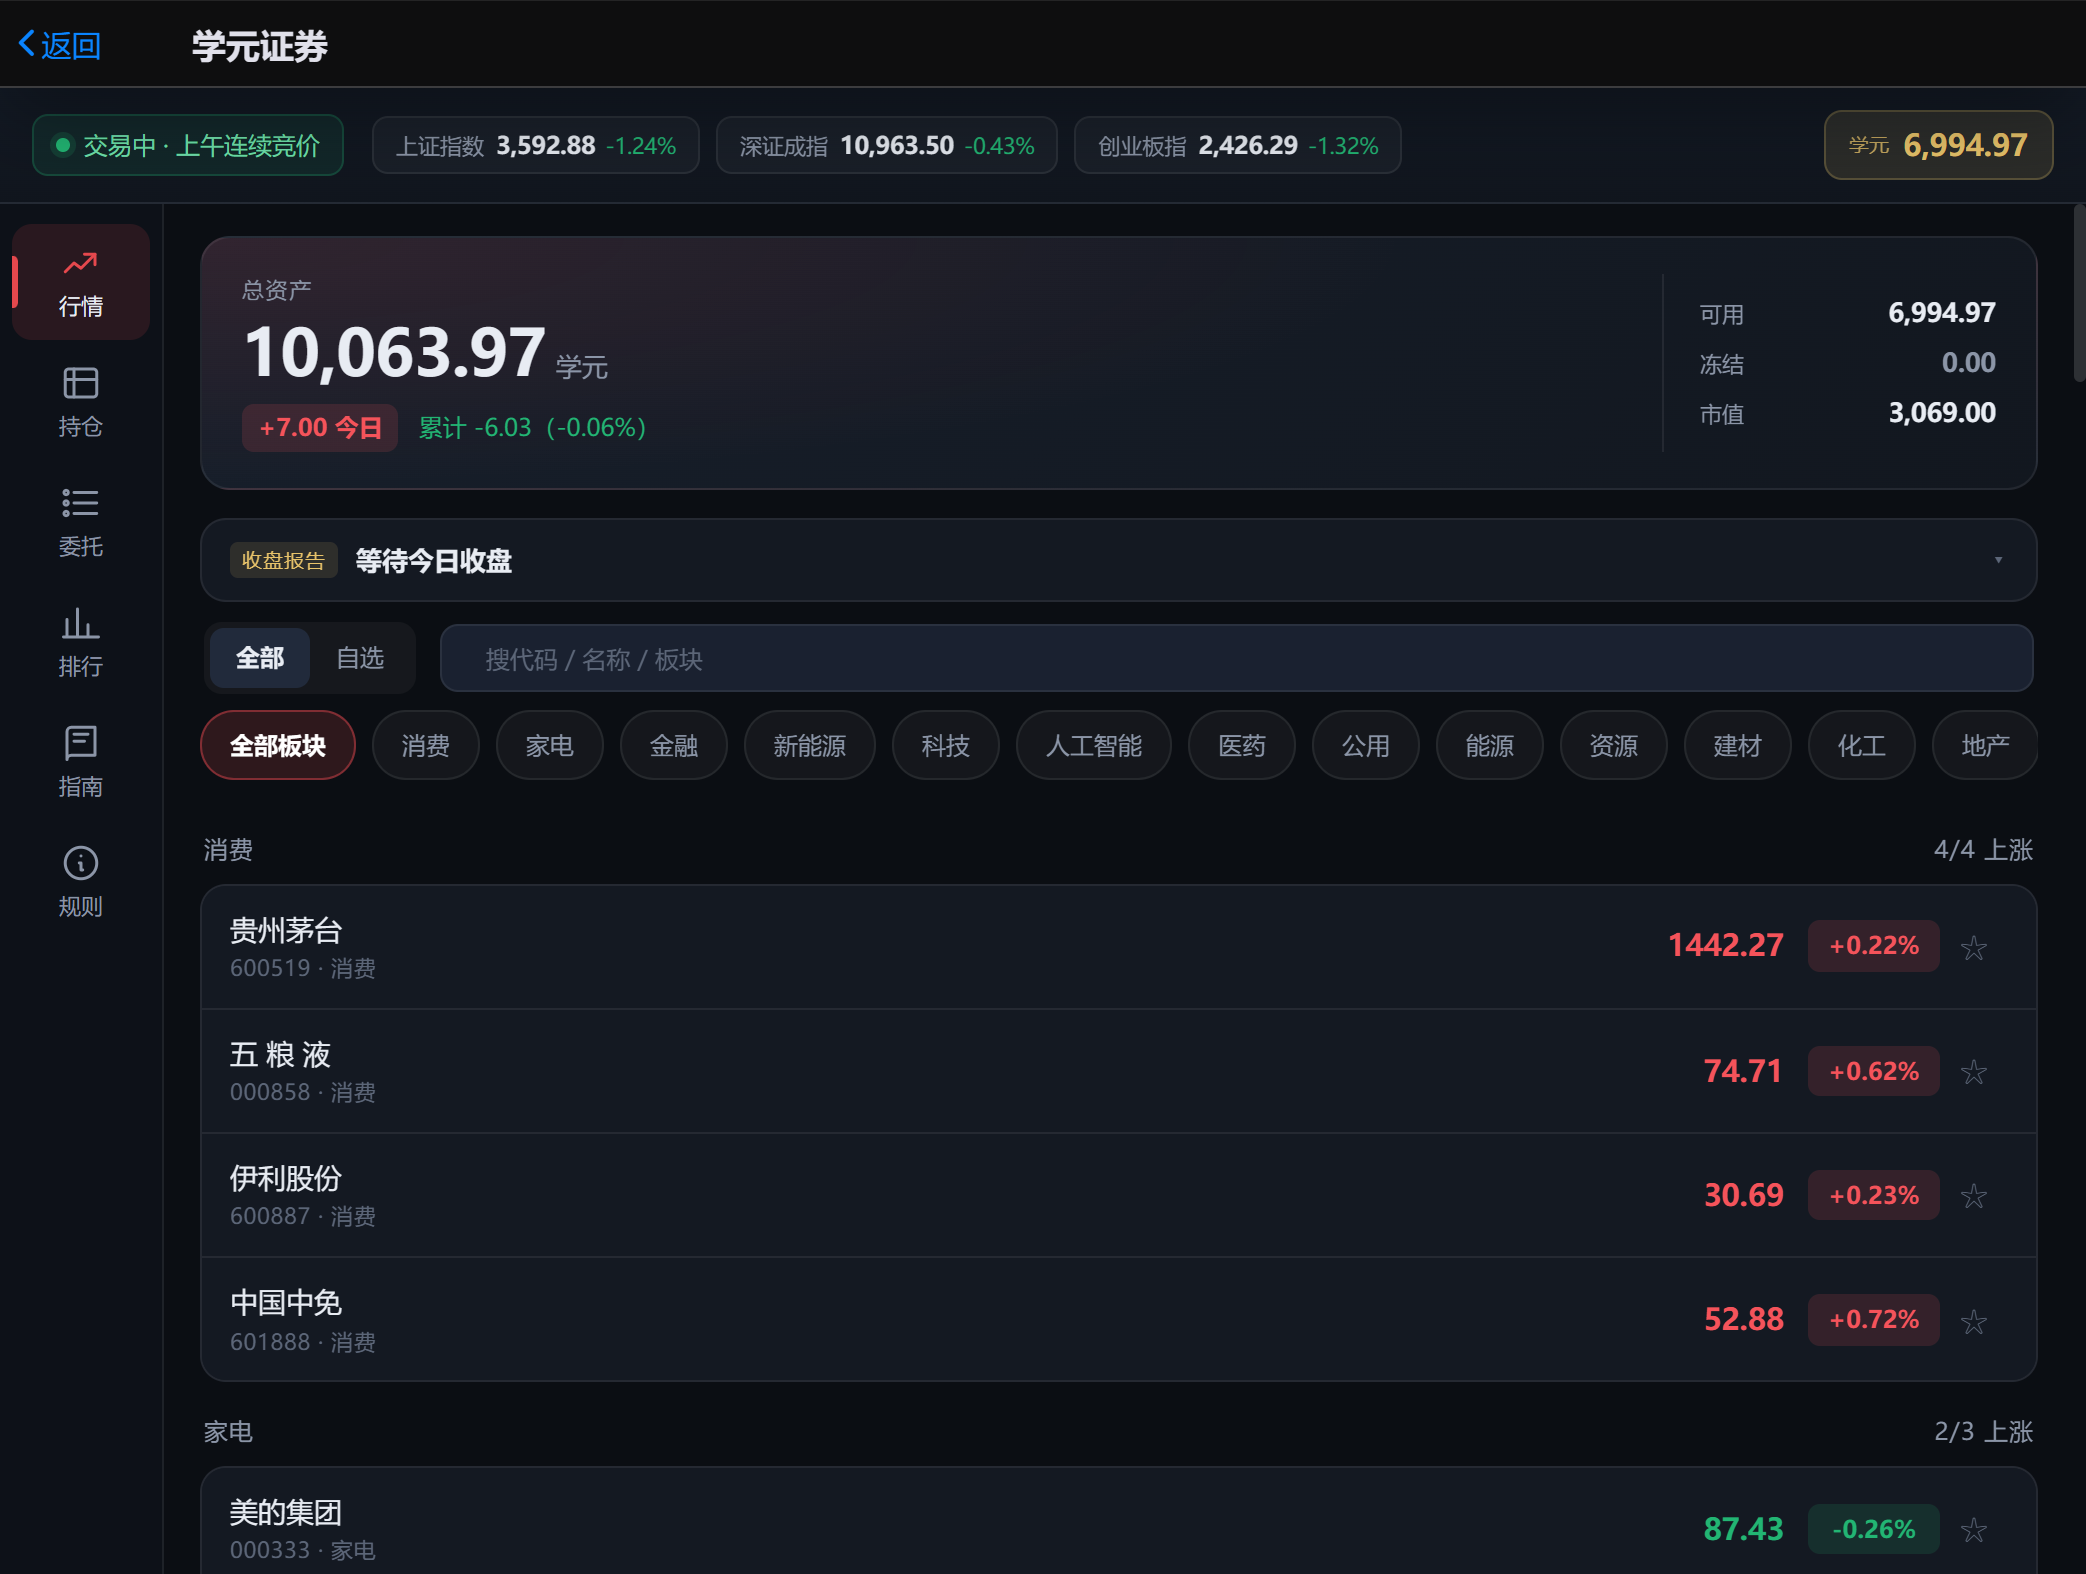
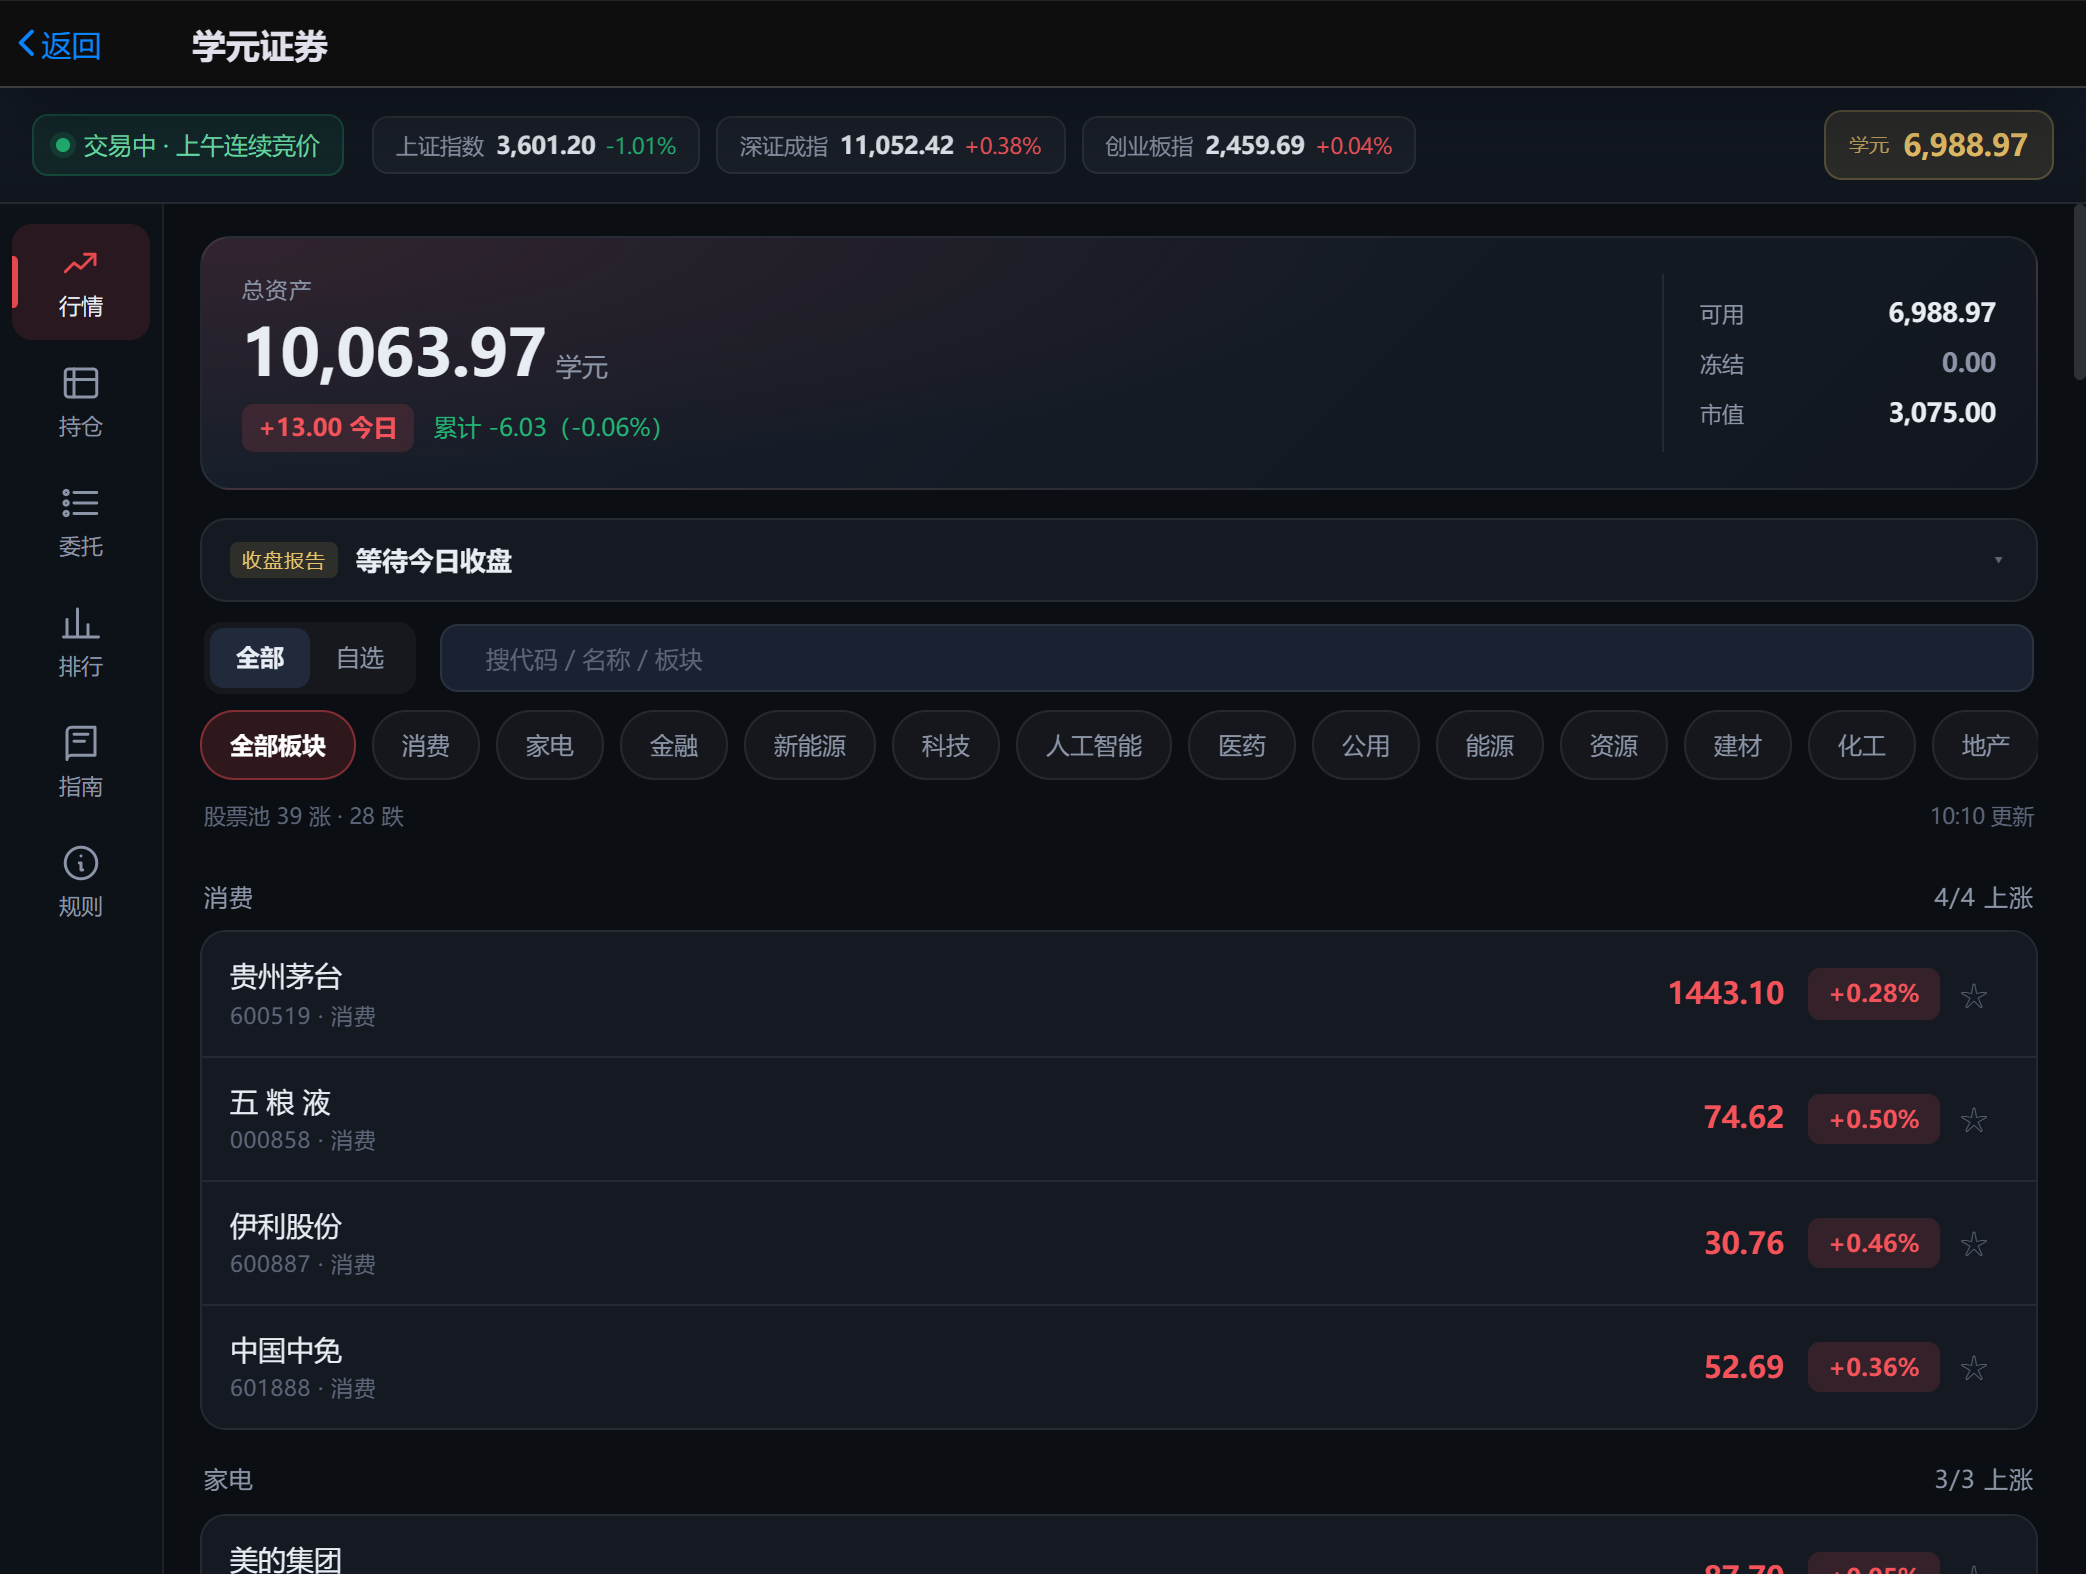
fix(stock): 学元证券 v1.5.0 —— 图表缓存/月K/排行口径/委托对账，7 项修复
- 详情页图表缓存：分时 30s、K线 5min（原先每 5 秒重拉整段分时并重绘 = 12 次/分钟/人 + 闪屏）
- 新增月K，图表四档：分时/日/周/月
- 行情页市场概况：股票池涨跌家数 + 更新时间
- 委托行：待成交买单选显示「冻结 xx 学元」，成交显示成交价，失效显示原因
- pending 文案「提交」→「待成交」（状态语义）
- 排行/跨班对决只统计进过应用的同学；对决人均只算有持仓或成交的活跃者
- 池外/停牌个股详情 500 → 404
- e2e 122/122、ui-probe 59/59；index 升 28

diff --git a/apps/stock/frontend/entry.js b/apps/stock/frontend/entry.js
@@ -43,6 +43,11 @@
     detailCode: '',
     detailQuote: null,
     chartTab: 'trend',
+    // 图表缓存：详情页每 5 秒刷新一次行情，若每次重拉分时/K线，
+    // 一个人就是 12 次/分钟的整段请求，而且 canvas 每 5 秒重绘会闪。
+    // key = code:tab，trend 缓存 30s、K线 5 分钟（2026-11-03）。
+    chartCache: {},
+    detailJustOpened: false,
     orders: null,
     trades: null,
     rank: null,
@@ -421,6 +426,22 @@
       wrap.appendChild(chips);
     }
 
+    // 市场概况：涨跌家数 + 更新时间（行情延迟时也在这里说清楚）
+    if (S.market) {
+      var upN = 0;
+      var downN = 0;
+      var listMeta = S.market.list || [];
+      for (var mi = 0; mi < listMeta.length; mi++) {
+        if (listMeta[mi].change_pct > 0) upN++;
+        else if (listMeta[mi].change_pct < 0) downN++;
+      }
+      var meta = h('div', 'market-meta');
+      meta.appendChild(h('span', null, '股票池 ' + upN + ' 涨 · ' + downN + ' 跌'));
+      meta.appendChild(h('span', 'num', (S.market.stale ? '行情延迟 · ' : '') +
+        todayLabel(S.market.quoted_at) + ' 更新'));
+      wrap.appendChild(meta);
+    }
+
     var listZone = h('div', 'market-list');
     wrap.appendChild(listZone);
 
@@ -717,7 +738,9 @@
   function openDetail(code) {
     S.detailCode = code;
     S.detail = null;
+    S.detailQuote = null;
     S.chartTab = 'trend';
+    S.detailJustOpened = true;   // 刚打开时强制拉一次图表，不吃缓存
     S.tab = 'market';
     renderMain();
     loadDetail(code);
@@ -764,7 +787,7 @@
     var chartCard = h('div', 'card');
     var tabs = h('div', 'chart-tabs');
     var seg = h('div', 'seg');
-    [['trend', '分时'], ['day', '日K'], ['week', '周K']].forEach(function (item) {
+    [['trend', '分时'], ['day', '日K'], ['week', '周K'], ['month', '月K']].forEach(function (item) {
       var b = h('div', 'seg-item' + (S.chartTab === item[0] ? ' active' : ''), item[1]);
       b.onclick = function () {
         if (S.chartTab === item[0]) return;
@@ -1286,7 +1309,17 @@
     c1.appendChild(sub);
     row.appendChild(c1);
 
-    row.appendChild(h('div', 'tc-2 num', o.type === 'market' ? '市价' : fmt(o.price, 2)));
+    var priceCell = h('div', 'tc-2 num');
+    priceCell.appendChild(h('div', null, o.type === 'market' ? '市价' : fmt(o.price, 2)));
+    // 未成交的买单要显示冻结了多少学元 —— 学生对账时最常问的就是「我的钱去哪了」
+    if (o.status === 'pending' && o.side === 'buy' && o.hold > 0) {
+      var holdLine = h('div', 'flat');
+      holdLine.style.fontSize = '10px';
+      holdLine.style.marginTop = '2px';
+      holdLine.textContent = '冻结 ' + money(o.hold);
+      priceCell.appendChild(holdLine);
+    }
+    row.appendChild(priceCell);
     row.appendChild(h('div', 'tc-3 num', o.qty));
 
     var c4 = h('div', 'tc-4');
@@ -1299,6 +1332,20 @@
       c4.appendChild(btn);
     } else {
       c4.appendChild(h('span', 'status-tag ' + o.status, o.status_label));
+      // 成交价 / 失效原因：撤单、拒绝之后学生最想知道「为什么」
+      var sub2 = null;
+      if (o.status === 'filled' && o.avg_fill > 0) {
+        sub2 = h('div', 'flat', '成交价 ' + fmt(o.avg_fill, 2));
+      } else if (o.reason) {
+        sub2 = h('div', 'flat', o.reason);
+      }
+      if (sub2) {
+        sub2.style.fontSize = '10px';
+        sub2.style.marginTop = '2px';
+        sub2.style.whiteSpace = 'normal';
+        sub2.style.lineHeight = '1.4';
+        c4.appendChild(sub2);
+      }
     }
     row.appendChild(c4);
     return row;
@@ -2238,7 +2285,8 @@
           renderMain();
         }
       }
-      loadChart();
+      loadChart(S.detailJustOpened);
+      S.detailJustOpened = false;
       return d;
     }).catch(function (e) {
       if (S.detailCode === code) {
@@ -2256,19 +2304,32 @@
     });
   }
 
-  function loadChart() {
+  function loadChart(force) {
     var code = S.detailCode;
     if (!code) return;
     var tab = S.chartTab;
+    var key = code + ':' + tab;
+    var now = Date.now();
+    var cached = S.chartCache[key];
+    var ttl = tab === 'trend' ? 30000 : 300000;
+    if (!force && cached && now - cached.at < ttl) {
+      S.detail = cached.data;
+      drawChart();
+      return;
+    }
     var p;
     if (tab === 'trend') {
       p = get('/trends/' + code);
     } else {
-      p = get('/kline/' + code, { klt: tab === 'week' ? 102 : 101, limit: 90 });
+      var klt = tab === 'month' ? 103 : (tab === 'week' ? 102 : 101);
+      p = get('/kline/' + code, { klt: klt, limit: 90 });
     }
     p.then(function (d) {
       if (S.detailCode !== code || S.chartTab !== tab) return;
       S.detail = d;
+      // 缓存上限 24 条（≈ 6 只股票 × 4 个周期），超了整表清掉，避免长会话堆积
+      if (Object.keys(S.chartCache).length > 24) S.chartCache = {};
+      S.chartCache[key] = { at: Date.now(), data: d };
       drawChart();
     }).catch(function () {
       if (S.detailCode !== code) return;
@@ -2295,6 +2356,7 @@
     loadPeer();
     return get('/rank').then(function (d) {
       S.rank = d;
+      S.lastRankAt = Date.now();   // 防止进页面 5 秒内被刷新计时器再打一次
       if (S.tab === 'rank') renderMain();
     }).catch(function (e) {
       if (!S.rank) { S.rank = { list: [], me: null, total: 0 }; renderMain(); }

diff --git a/apps/stock/backend/peer.js b/apps/stock/backend/peer.js
@@ -50,9 +50,16 @@ function className(cc) {
 // 同步版本：由调用方把 snapshot 传进来（quotes.getSnapshot() 的结果）
 function buildLocalPayload(snapshot) {
   var byCode = (snapshot && snapshot.byCode) || {};
+  // 只统计进过本应用的人（stock_account 首开 overview 时创建），并带上
+  // 「有没有真的在玩」的标记：对决的人均收益率只算有持仓或有过成交的活跃者，
+  // 否则一屋子刚开户还没动手的账号会把均值稀释成 0（2026-11-03 修）。
   var accounts = db.prepare([
-    'SELECT a.user_id, a.balance, u.net_name',
-    'FROM xy_account a LEFT JOIN users u ON u.user_id = a.user_id',
+    'SELECT a.user_id, a.balance, u.net_name,',
+    '  COALESCE(s.trade_count, 0) AS trade_count,',
+    '  (SELECT COUNT(*) FROM stock_positions p WHERE p.user_id = a.user_id AND p.qty > 0) AS pos_count',
+    'FROM xy_account a',
+    'JOIN stock_account s ON s.user_id = a.user_id',
+    'LEFT JOIN users u ON u.user_id = a.user_id',
     "WHERE a.user_id NOT LIKE '@%' AND length(a.user_id) = 6"
   ].join('\n')).all();
 
@@ -92,18 +99,28 @@ function buildLocalPayload(snapshot) {
       net_name: a.net_name || '同学',
       total_asset: Math.round(total) / 100,
       pnl: Math.round(pnl) / 100,
-      return_pct: invested > 0 ? Math.round(pnl / invested * 10000) / 100 : 0
+      return_pct: invested > 0 ? Math.round(pnl / invested * 10000) / 100 : 0,
+      active: (a.trade_count > 0) || (a.pos_count > 0)
     });
   }
-  list.sort(function (x, y) { return y.total_asset - x.total_asset; });
 
-  // 人均收益率只算「有持仓或有过交易」的活跃者，否则 40 个空账户拉低均值
-  var active = list.filter(function (x) { return x.total_asset > 0; });
+  // 活跃 = 有过成交或当前有持仓；人均与 top 榜都只算这批人
+  var active = list.filter(function (x) { return x.active; });
+  active.sort(function (x, y) { return y.total_asset - x.total_asset; });
   var avg = 0;
   if (active.length) {
     var sum = 0;
     for (var m = 0; m < active.length; m++) sum += active[m].return_pct;
     avg = Math.round(sum / active.length * 100) / 100;
+  }
+  var top = [];
+  for (var t = 0; t < active.length && top.length < 10; t++) {
+    top.push({
+      net_name: active[t].net_name,
+      total_asset: active[t].total_asset,
+      pnl: active[t].pnl,
+      return_pct: active[t].return_pct
+    });
   }
 
   return {
@@ -111,7 +128,7 @@ function buildLocalPayload(snapshot) {
     generated_at: Date.now(),
     participants: active.length,
     avg_return: avg,
-    top: list.slice(0, 10)
+    top: top
   };
 }
 

diff --git a/apps/stock/backend/routes.js b/apps/stock/backend/routes.js
@@ -205,6 +205,9 @@ router.get('/quote/:code', wrap(function (req, res) {
       fee_preview: market.calcFees('buy', q.price_cent * market.LOT_SIZE),
       max_buy: market.maxBuyQty(cash.available_cent, q.price)
     });
+  }).catch(function (err) {
+    // 停牌 / 池外 / 暂时无行情：404 比 500 更准确，前端也能直接提示
+    res.status(404).json({ code: 404, message: err.message || '暂无该股票的行情' });
   });
 }));
 
@@ -399,9 +402,13 @@ router.get('/report', wrap(function (req, res) {
 // ---- 班级排行 ----
 router.get('/rank', wrap(function (req, res) {
   return quotes.getSnapshot().then(function (snap) {
+    // 只统计「进过本应用」的人：stock_account 在首次打开 overview 时创建。
+    // 只开了学元账户、从没进过炒股的同学不该占着排行榜名额（口径 2026-11-03 修）。
     var accounts = db.prepare([
       'SELECT a.user_id, a.balance, u.net_name, u.real_name',
-      'FROM xy_account a LEFT JOIN users u ON u.user_id = a.user_id',
+      'FROM xy_account a',
+      'JOIN stock_account s ON s.user_id = a.user_id',
+      'LEFT JOIN users u ON u.user_id = a.user_id',
       "WHERE a.user_id NOT LIKE '@%'"
     ].join('\n')).all();
 

diff --git a/apps/stock/backend/trading.js b/apps/stock/backend/trading.js
@@ -456,7 +456,8 @@ function cancelOrder(userId, orderId) {
 
 function statusText(s) {
   var map = {
-    pending: '提交', filled: '成交', cancelled: '撤销', expired: '过期', rejected: '拒绝'
+    // pending 对学生的语义是「已挂单等成交」，不是「提交中」—— 文案直接影响对状态的理解
+    pending: '待成交', filled: '成交', cancelled: '撤销', expired: '过期', rejected: '拒绝'
   };
   return map[s] || s;
 }

diff --git a/apps/stock/frontend/style.css b/apps/stock/frontend/style.css
@@ -1300,6 +1300,16 @@
   border-color: rgba(229,72,77,.45);
 }
 
+/* 市场概况：涨跌家数 + 更新时间 */
+.ci-stock .market-meta {
+  display: flex;
+  align-items: center;
+  justify-content: space-between;
+  padding: 0 2px 8px;
+  font-size: 11px;
+  color: var(--dim);
+}
+
 /* 触板徽标（涨停/跌停） */
 .ci-stock .pct-badge.limit { letter-spacing: 1px; }
 .ci-stock .pct-badge.limit.up { box-shadow: inset 0 0 0 1px rgba(245,83,90,.45); }
